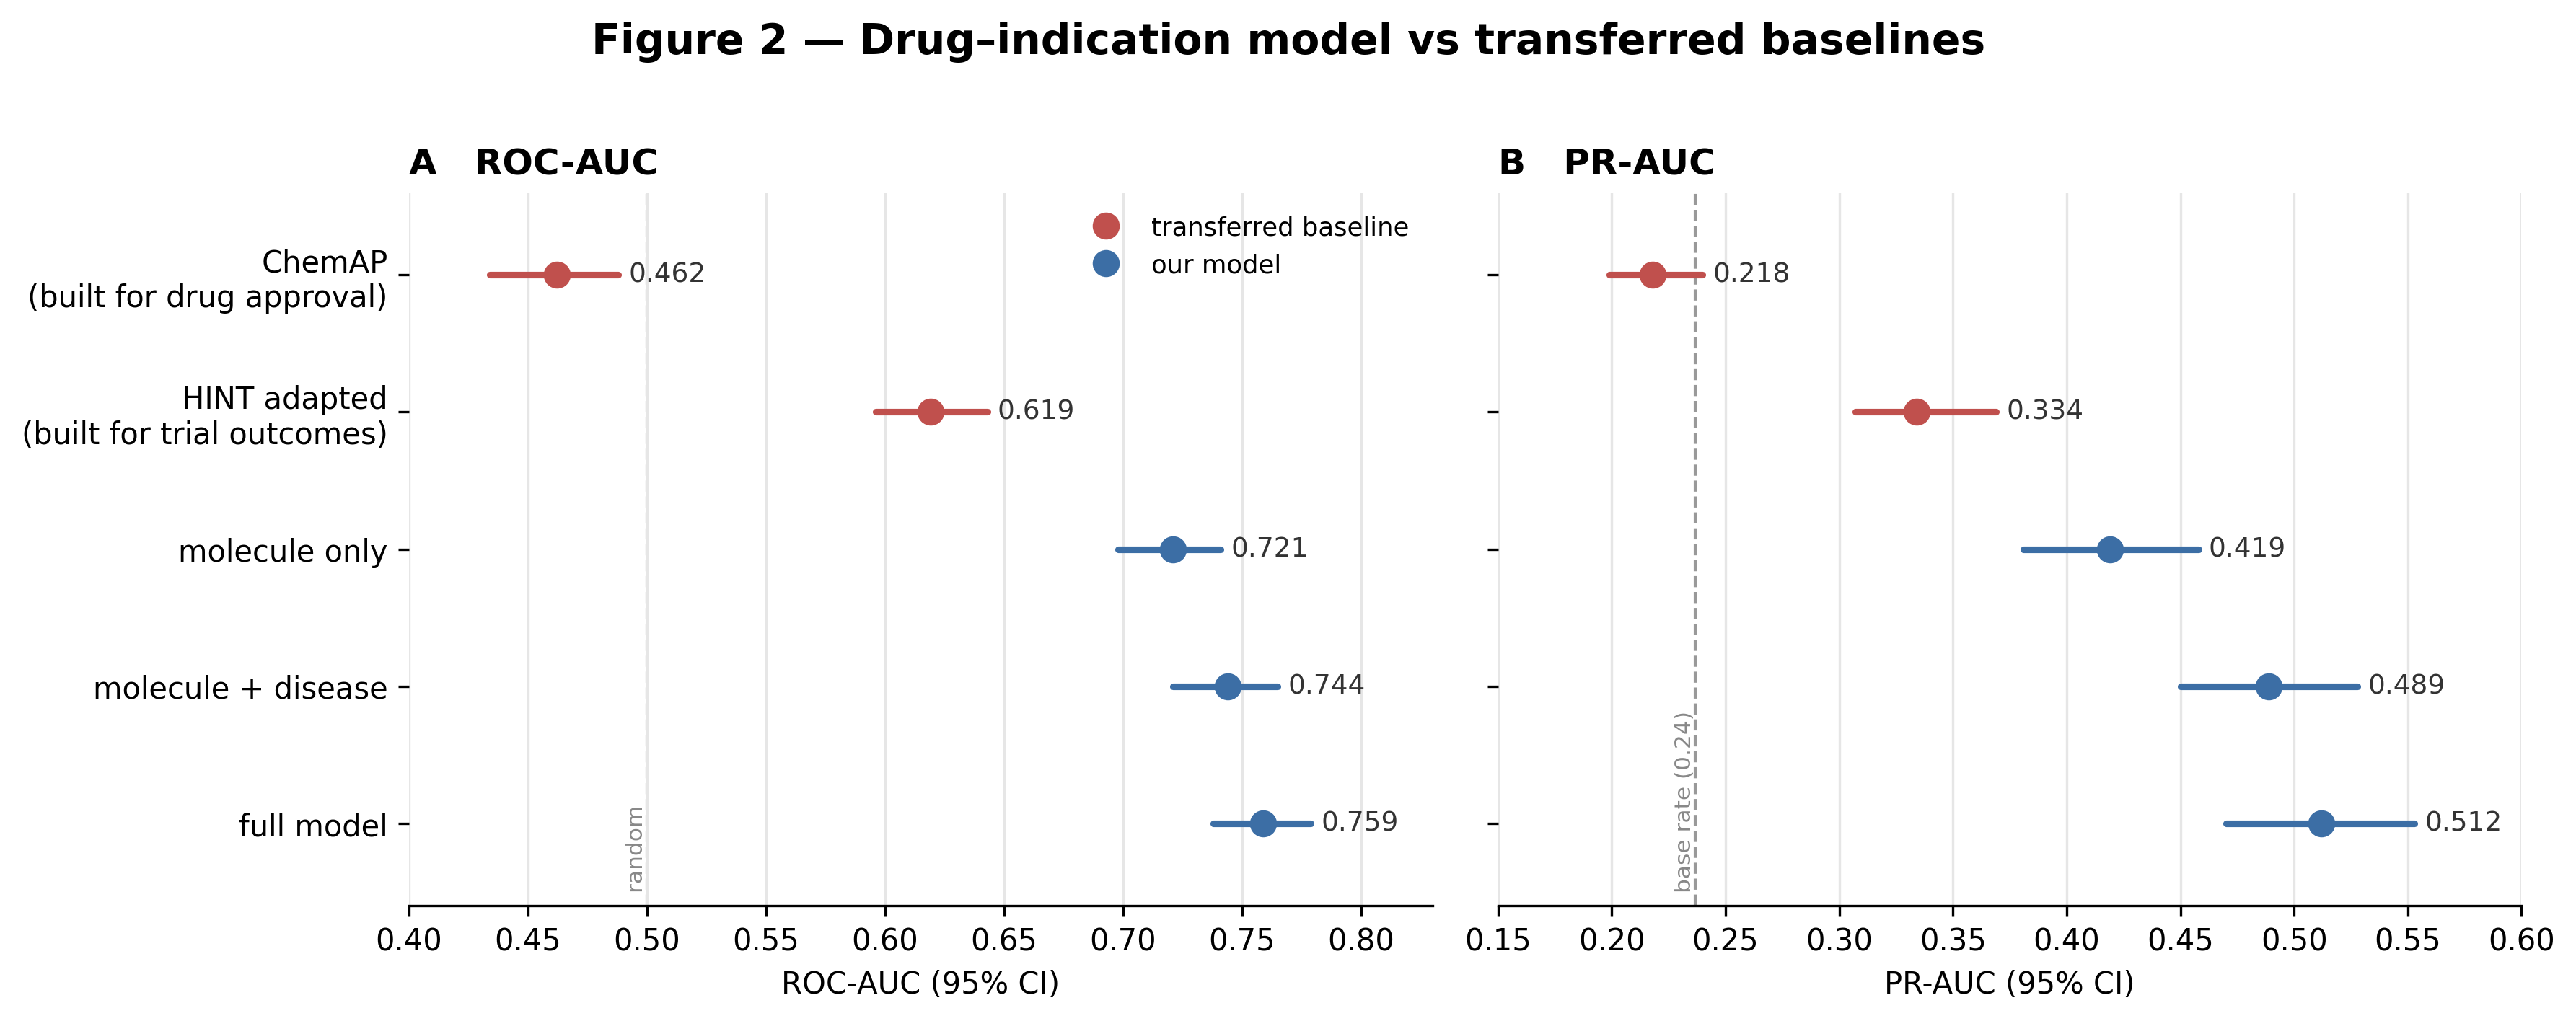
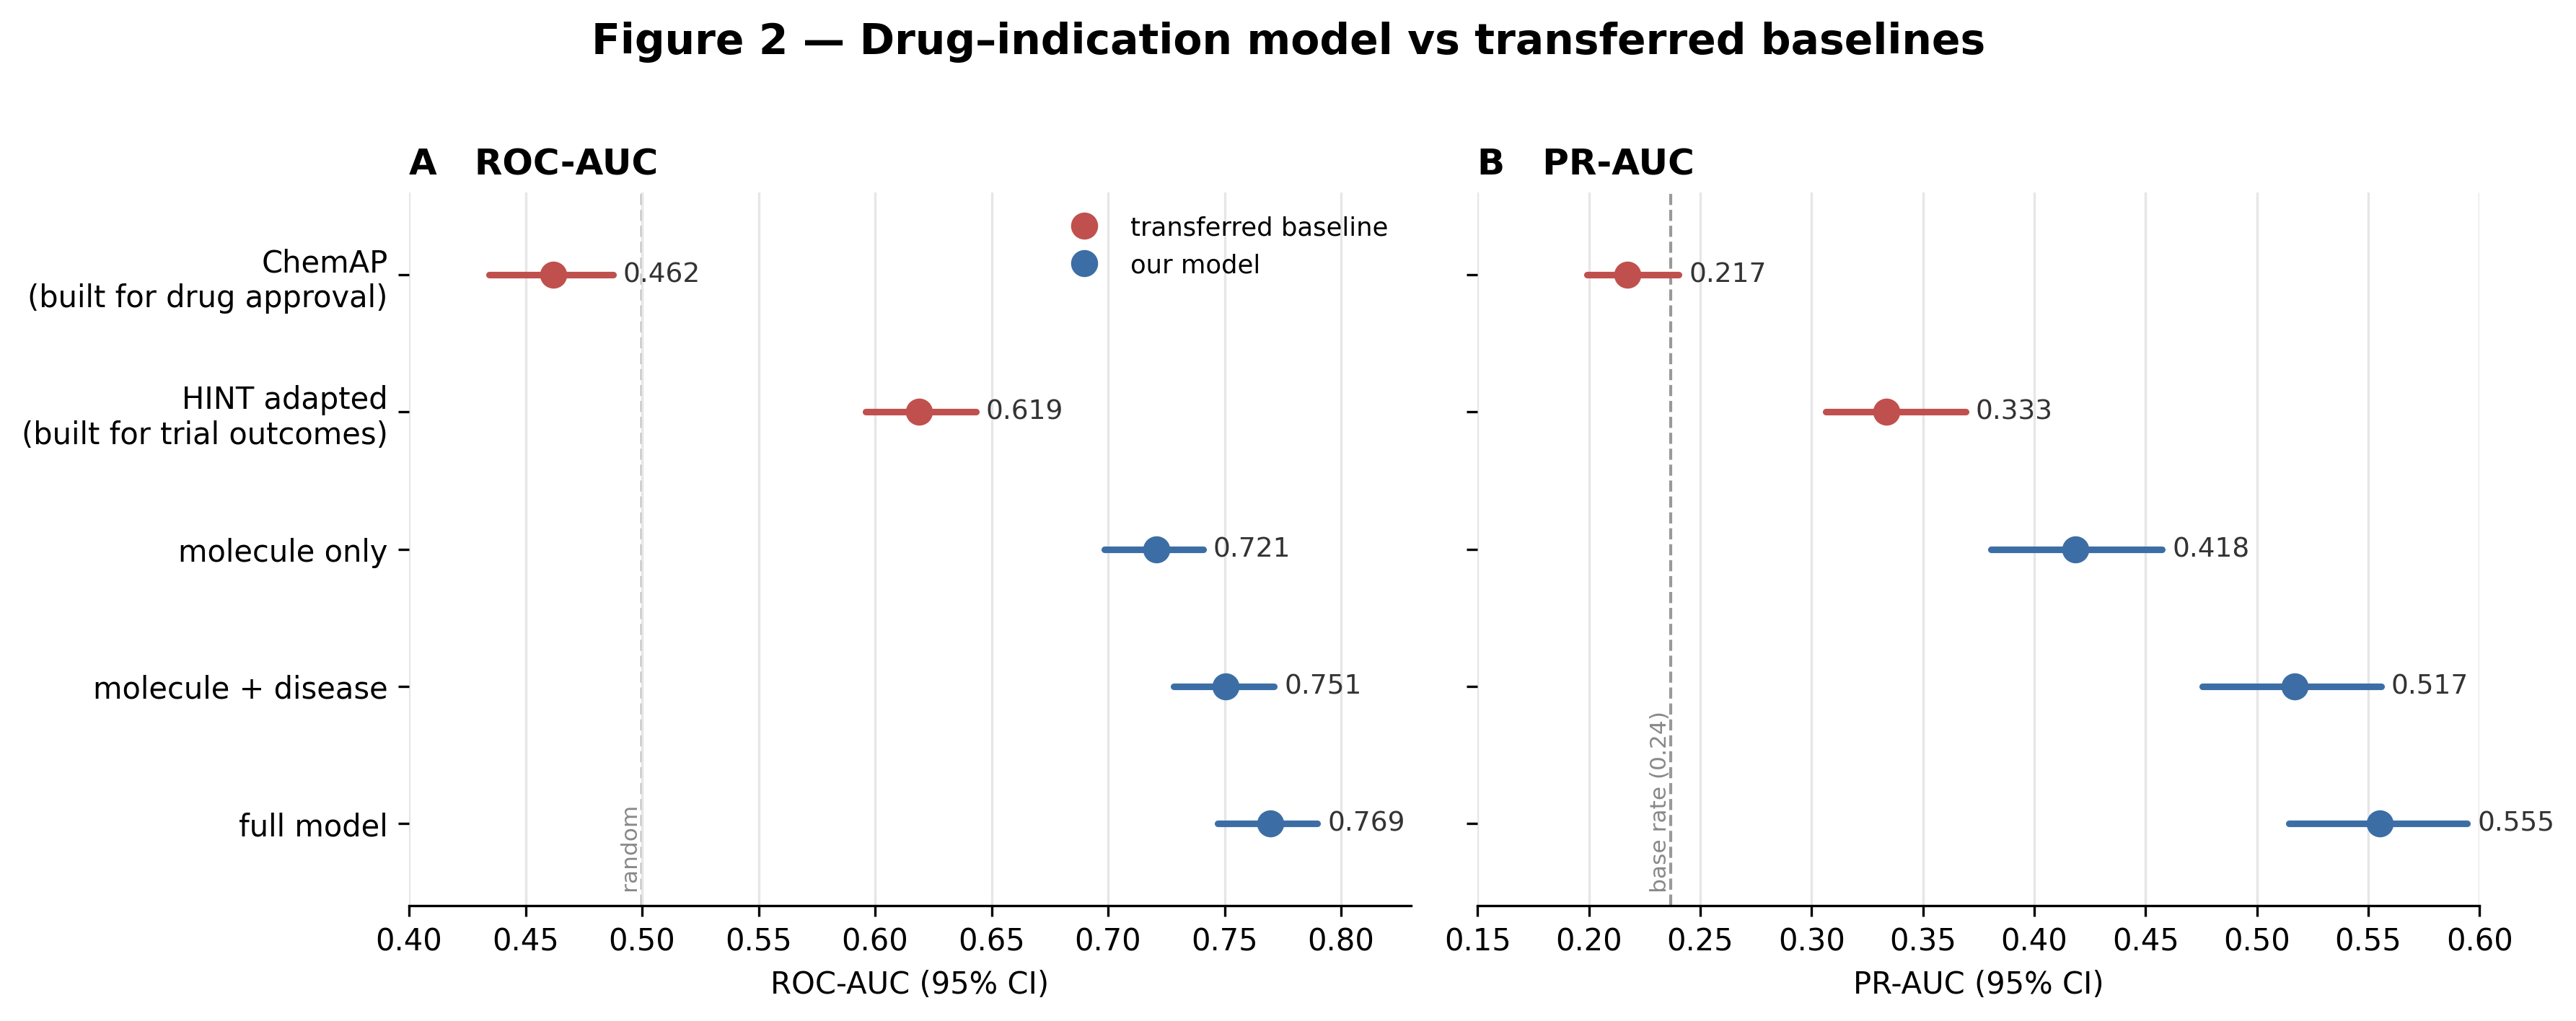
Figure updates with updated model results

diff --git a/make_figures.py b/make_figures.py
@@ -1,41 +1,71 @@
 #!/usr/bin/env python3
 """Build paper Figures 1-3 for the drug-indication approval-forecast project.
 
-Single, self-contained script — matplotlib + numpy only, NO repo imports. All numbers are the
-locked values from the experiments (ours_di, category-level ICD, PCA-50 per group; max-F1
-convention) and `cohort_summary.ipynb`, with bootstrap 95% CIs pulled from runs/*/metrics.json.
-Edit the DATA section to update.
+Numbers are loaded LIVE from the repo so the figures always reflect the latest training — point
+estimates + bootstrap 95% CIs from `runs/<exp>/metrics.json`, seen/unseen from `dsm.stratify`, and
+cohort stats from the materialized `ours_di` dataset. Only the schematic text (Figure 1A/1B) and the
+label→experiment wiring are hard-coded. Re-run after retraining; no manual number edits.
 
-    python make_figures.py            # writes figures/figure{1,2,3}.{png,pdf}
+    uv run python make_figures.py     # writes figures/figure{1,2,3}.{png,pdf}
 """
 
 from __future__ import annotations
 
+import json
 import os
 import textwrap
+from pathlib import Path
 
 import matplotlib
+import pandas as pd
 
 matplotlib.use("Agg")
 import matplotlib.pyplot as plt
 from matplotlib.patches import FancyBboxPatch, Rectangle
 
+from dsm.datasets import materialize
+from dsm.experiments import DATASETS
+from dsm.stratify import stratify_experiment
+
 OUTDIR = "figures"
+RUNS = Path("runs")
+
 
 # ----------------------------------------------------------------------------- #
-# DATA (locked numbers)
+# Live data loaders — numbers come straight from runs/ + the dataset
 # ----------------------------------------------------------------------------- #
-COHORT = {
-    "total": 14_134,
-    "approved": 2_469,
-    "failed": 11_665,
-    "test_pairs": 2_637,
-    "test_pos": 624,
-    "unique_drugs": 2_313,
-    "unique_indications": 4_190,
-    "avg_ind_per_drug": 5.18,
-}
-POS_RATE = COHORT["test_pos"] / COHORT["test_pairs"]  # PR-AUC random baseline (~0.237)
+def _metrics(name: str):
+    """(roc, roc_lo, roc_hi, pr, pr_lo, pr_hi) from runs/<name>/metrics.json (CIs -> point if absent)."""
+    o = json.loads((RUNS / name / "metrics.json").read_text())["overall"]
+    roc, pr = o["roc_auc"], o["pr_auc"]
+    return (roc, o.get("roc_auc_lo", roc), o.get("roc_auc_hi", roc),
+            pr, o.get("pr_auc_lo", pr), o.get("pr_auc_hi", pr))
+
+
+def _seen_unseen(name: str, n_boot: int = 1000):
+    r = stratify_experiment(name, bootstrap_ci=n_boot)
+    return r["seen"], r["unseen"]
+
+
+def _cohort() -> dict:
+    df = pd.read_parquet(materialize(DATASETS["ours_di"]))
+    test = df[df["split"] == "test"]
+    return {
+        "total": len(df),
+        "approved": int(df["label"].sum()),
+        "failed": int((df["label"] == 0).sum()),
+        "test_pairs": len(test),
+        "test_pos": int(test["label"].sum()),
+        "unique_drugs": int(df["drugbank_id"].nunique()),
+        "unique_indications": int(df["indication"].nunique()),
+        "avg_ind_per_drug": float(df.groupby("drugbank_id")["indication"].nunique().mean()),
+    }
+
+# ----------------------------------------------------------------------------- #
+# DATA — schematic text is fixed; all numbers are loaded from the repo below.
+# ----------------------------------------------------------------------------- #
+COHORT = _cohort()
+POS_RATE = COHORT["test_pos"] / COHORT["test_pairs"]  # PR-AUC random baseline
 
 # Figure 1A — prediction-unit comparison.
 F1_HEADERS = ["Prior task", "Prediction unit", "Limitation"]
@@ -59,31 +89,39 @@ F1_PIPELINE = [
 ]
 
 # Figure 2 — task-specific model vs transferred baselines.
-# (label, task origin, roc, roc_lo, roc_hi, pr, pr_lo, pr_hi, is_transfer)
-F2_MODELS = [
-    ("ChemAP", "built for drug approval", 0.462, 0.434, 0.488, 0.218, 0.199, 0.240, True),
-    ("HINT adapted", "built for trial outcomes", 0.619, 0.596, 0.643, 0.334, 0.307, 0.369, True),
-    ("molecule only", "", 0.721, 0.698, 0.741, 0.419, 0.381, 0.458, False),
-    ("molecule + disease", "", 0.744, 0.721, 0.765, 0.489, 0.450, 0.528, False),
-    ("full model", "", 0.759, 0.738, 0.779, 0.512, 0.470, 0.553, False),
+# Wiring only: (label, task origin, experiment, is_transfer); numbers loaded from runs/.
+_F2 = [
+    ("ChemAP", "built for drug approval", "chemap_di_2019", True),
+    ("HINT adapted", "built for trial outcomes", "hint_di_2019", True),
+    ("molecule only", "", "abl_molecule", False),
+    ("molecule + disease", "", "abl_md", False),
+    ("full model", "", "abl_mdtpa", False),
 ]
+# -> (label, origin, roc, roc_lo, roc_hi, pr, pr_lo, pr_hi, is_transfer)
+F2_MODELS = [(lbl, origin, *_metrics(exp), is_t) for lbl, origin, exp, is_t in _F2]
 
-# Figure 3A — feature-set ladder (ROC-AUC). (label, roc, lo, hi, kind: 'single'|'cumulative')
-F3_LADDER = [
-    ("pathway", 0.605, 0.583, 0.629, "single"),
-    ("target", 0.624, 0.599, 0.649, "single"),
-    ("disease", 0.634, 0.609, 0.657, "single"),
-    ("ADMET", 0.714, 0.692, 0.734, "single"),
-    ("molecule", 0.721, 0.698, 0.741, "single"),
-    ("molecule + disease", 0.744, 0.721, 0.765, "cumulative"),
-    ("molecule + disease + target", 0.755, 0.733, 0.776, "cumulative"),
-    ("full", 0.759, 0.738, 0.779, "cumulative"),
+# Figure 3A — feature-set ladder. Wiring only: (label, experiment, kind); ROC+CI from runs/,
+# sorted ascending so the "ladder" holds however the numbers move.
+_F3 = [
+    ("pathway", "abl_pathway", "single"),
+    ("target", "abl_target", "single"),
+    ("disease", "abl_disease", "single"),
+    ("ADMET", "abl_admet", "single"),
+    ("molecule", "abl_molecule", "single"),
+    ("molecule + disease", "abl_md", "cumulative"),
+    ("molecule + disease + target", "abl_mdt", "cumulative"),
+    ("full", "abl_mdtpa", "cumulative"),
 ]
+F3_LADDER = sorted(
+    [(lbl, (m := _metrics(exp))[0], m[1], m[2], kind) for lbl, exp, kind in _F3],
+    key=lambda r: r[1],
+)
 
-# Figure 3B — seen vs unseen drugs (full model, ROC-AUC).
+# Figure 3B — seen vs unseen drugs for the full model (abl_mdtpa), from dsm.stratify.
+_seen, _unseen = _seen_unseen("abl_mdtpa")
 F3_SEEN_UNSEEN = [
-    ("seen drugs", 0.765, 0.742, 0.786, 2270),
-    ("unseen drugs", 0.727, 0.670, 0.782, 367),
+    ("seen drugs", _seen["roc_auc"], _seen["roc_auc_lo"], _seen["roc_auc_hi"], _seen["n"]),
+    ("unseen drugs", _unseen["roc_auc"], _unseen["roc_auc_lo"], _unseen["roc_auc_hi"], _unseen["n"]),
 ]
 
 # colours